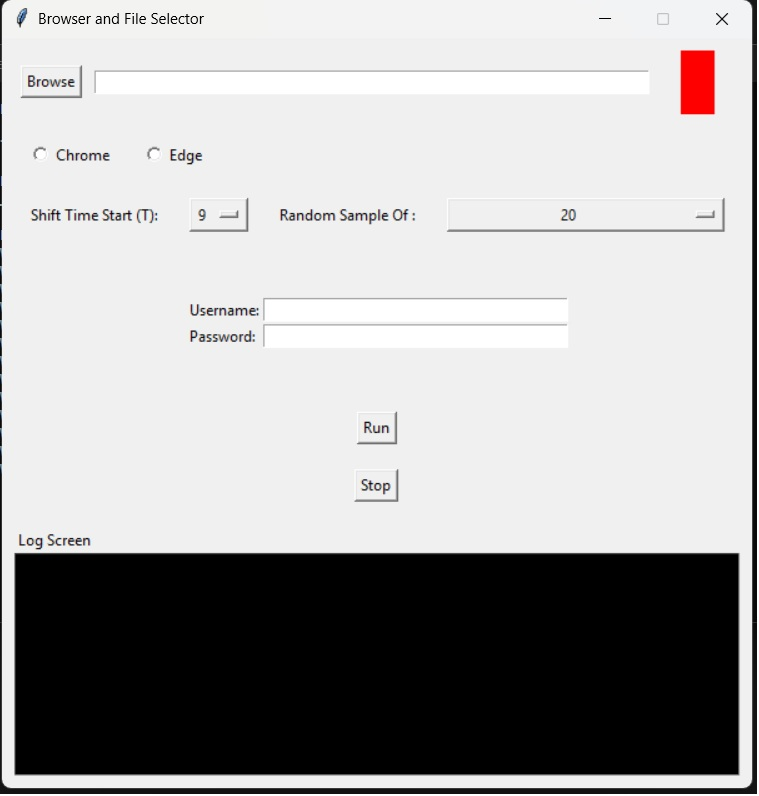
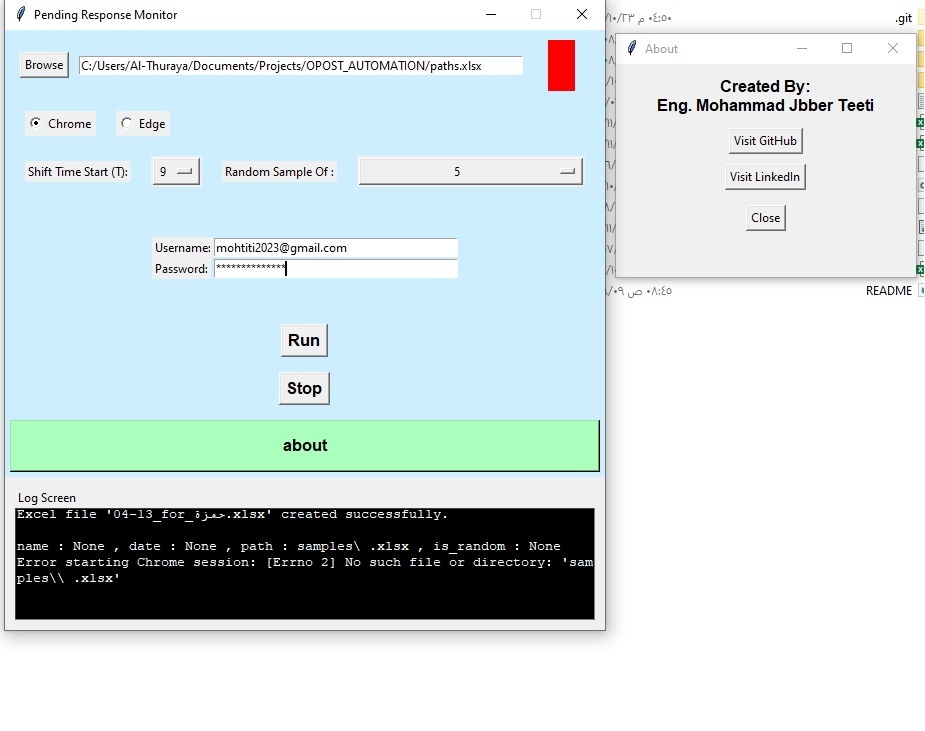
add about button and anout information , change fonts and colors , add new screen shot with about

diff --git a/form_version_1.py b/form_version_1.py
@@ -6,6 +6,7 @@ import threading
 import os
 import time
 import subprocess
+import webbrowser
 import openpyxl
 from openpyxl.styles import PatternFill
 from openpyxl import Workbook
@@ -331,8 +332,34 @@ def stop_main_processing_thread():
     light_label.config(background="#FF0000")
     
 
+def show_about_window():
+    about_win = tk.Toplevel(root)
+    about_win.title("About")
+    about_win.geometry("300x200")
+    
+    # Name label
+    name_label = tk.Label(about_win, text="Created By:\nEng. Mohammad Jbber Teeti", font=("Arial", 12, "bold"))
+    name_label.pack(pady=(10, 5))
 
+    # GitHub button
+    github_button = tk.Button(
+        about_win, 
+        text="Visit GitHub", 
+        command=lambda: webbrowser.open("https://github.com/mohammadteeti")
+    )
+    github_button.pack(pady=5)
 
+    # LinkedIn button
+    linkedin_button = tk.Button(
+        about_win, 
+        text="Visit LinkedIn", 
+        command=lambda: webbrowser.open("https://www.linkedin.com/in/mohammadteeti/")
+    )
+    linkedin_button.pack(pady=5)
+
+    # Close button
+    close_button = tk.Button(about_win, text="Close", command=about_win.destroy)
+    close_button.pack(pady=10)
 
 
 #####################################################################################################################################
@@ -681,14 +708,14 @@ def update_sample_number(value):
 
 # Create the main application window
 root = tk.Tk()
-root.title("Browser and File Selector")
+root.title("Pending Response Monitor")
 root.geometry("600x600")
 root.resizable(False, False)
-
+root.config(bg="#cceeff")
 # Create a frame for the file selection
 file_frame = tk.Frame(root, padx=10, pady=10)
 file_frame.pack(fill=tk.X)
-
+file_frame.config(bg="#cceeff")
 browse_button = tk.Button(file_frame, text="Browse", command=browsFile)
 browse_button.pack(side=tk.LEFT, padx=5)
 
@@ -698,6 +725,7 @@ path_box.pack(side=tk.LEFT, padx=5, fill=tk.X, expand=True)
 # Create a frame for browser selection
 browser_frame = tk.Frame(root, padx=10, pady=10)
 browser_frame.pack(fill=tk.X)
+browser_frame.config(bg="#cceeff")
 # create red- and green 
 light_label=tk.Label(file_frame,text="",width=3,height=3,background="#FF0000")
 light_label.pack(padx=20)
@@ -715,7 +743,7 @@ edge_radio.pack(side=tk.LEFT, padx=10)
 # Create a frame for shift time selection
 shift_time_frame = tk.Frame(root, padx=10, pady=10)
 shift_time_frame.pack(fill=tk.X)
-
+shift_time_frame.config(bg="#cceeff")
 # Label for shift time
 shift_time_label = tk.Label(shift_time_frame, text="Shift Time Start (T):")
 shift_time_label.pack(side=tk.LEFT, padx=10)
@@ -744,7 +772,7 @@ random_selector_menu.pack(side=tk.RIGHT,padx=10,fill=tk.X,expand=True)
 # Create login login_frame
 login_frame = tk.Frame(root, padx=20, pady=20)
 login_frame.pack(pady=20)
-
+login_frame.config(bg="#cceeff")
 # Username label and entry
 label_username = tk.Label(login_frame, text="Username:")
 label_username.grid(row=0, column=0, sticky="w")
@@ -763,13 +791,16 @@ entry_password.grid(row=1, column=1)
 #button_login.grid(row=2, column=0, columnspan=2, pady=10)
 
 # Create a button to run the script
-run_button = tk.Button(root, text="Run", command=run_script)
-run_button.pack(pady=10)
+run_button = tk.Button(root, text="Run", command=run_script ,font=("Arial", 12, "bold"))
+run_button.pack(pady=5,padx=5)
 
 #create a button to stop the script
-stop_button = tk.Button(root,text="Stop",command=stop_main_processing_thread)
+stop_button = tk.Button(root,text="Stop",command=stop_main_processing_thread ,font=("Arial", 12, "bold"))
 stop_button.pack(padx=10 ,pady=10)
 
+#create a button to show about window
+about_button = tk.Button(root,text="about",command=show_about_window,width=100,height=2,background="#ABFFBC",font=("Arial", 12, "bold"))
+about_button.pack(padx=5 ,pady=5)
 
 # Create a log screen
 log_frame = tk.Frame(root, padx=10, pady=10,width=100)
